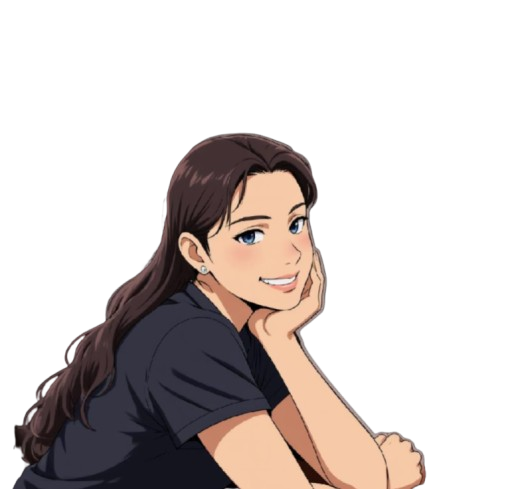
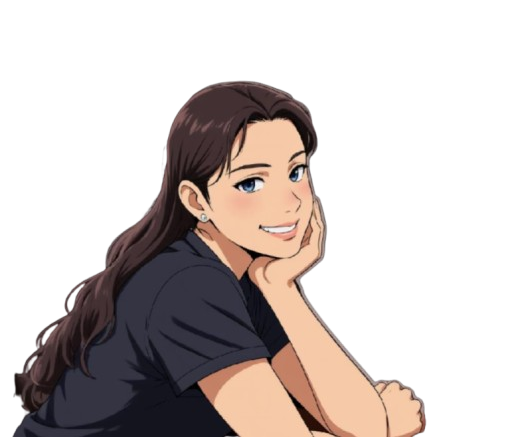
Fix

Changed region(s): [[0.0294, 0.1785, 0.8529, 1.0], [0.5588, 0.833, 0.6765, 1.0]]

diff --git a/style.css b/style.css
@@ -57,10 +57,8 @@
     
 }
 .intro-img{
-    display: block;
-    width: 442px;  
-    height: auto;
-    border-radius: 10px;
+    width: 475px;  
+    height: 423px;
 }
 .AboutMe{
     background-color: #ffc2c2;
